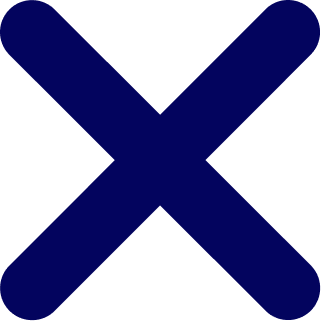
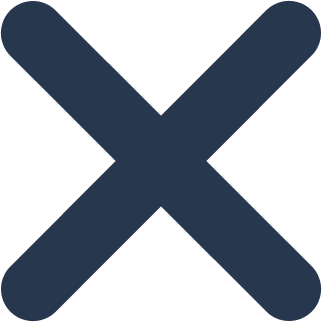
Change theme for better UX.

diff --git a/src/components/navbar.jsx b/src/components/navbar.jsx
@@ -26,40 +26,43 @@ const Navbar = () => {
   }, []);
 
   return (
-    <motion.nav
-      variants={navVariants}
-      initial="hidden"
-      whileInView="show"
-      className={`w-full h-auto flex fixed top-0 z-10 justify-between items-center px-10 py-5 bg-sky-50  text-blue-900 font-poppins ${
-        isScrolled && "border border-t-0 border-x-0 shadow-sm"
-      }`}
-    >
-      <Link
-        className="font-semibold hover:text-blue-700 ease-in-out duration-500 hover:cursor-pointer"
-        to="home"
-        smooth={true}
-        duration={500}
+    <div className="flex w-full h-full relative">
+      <dir className="absolute h-96 w-3/5 rounded-full top-5 blur-3xl bg-gradient-to-br to-lighter-gray from-white z-10 opacity-20"></dir>
+      <motion.nav
+        variants={navVariants}
+        initial="hidden"
+        whileInView="show"
+        className={`w-full h-auto flex fixed top-0 justify-between items-center px-10 py-5 bg-dark-gray text-navy-blue font-poppins ${
+          isScrolled && "border border-t-0 border-x-0 shadow-sm z-10"
+        }`}
       >
-        Chamod
-      </Link>
-      <NavItems classes="hidden md:flex lg:flex flex-row gap-8" />
-      <NavSocials classes="hidden md:flex lg:flex flex-row gap-10" />
-      <div className="flex md:hidden lg:hidden">
-        <img
-          src={!isMenuActive ? assets.menu : assets.cross}
-          className="w-5 hover:cursor-pointer object-cover"
-          onClick={() => setMenuActive((prev) => !prev)}
-        />
-      </div>
-      <div
-        className={`${
-          isMenuActive ? "flex" : "hidden"
-        } flex-col md:hidden lg:hidden absolute w-40 h-48 bg-white top-16 right-5 rounded-md justify-between pt-5 shadow-md`}
-      >
-        <NavItems classes="flex items-center md:hidden lg:hidden flex-col gap-3" />
-        <NavSocials classes="flex border border-x-0 border-b-0 py-3 md:hidden lg:hidden flex-row gap-10 items-center justify-center" />
-      </div>
-    </motion.nav>
+        <Link
+          className="font-semibold hover:text-light-blue ease-in-out duration-500 hover:cursor-pointer"
+          to="home"
+          smooth={true}
+          duration={500}
+        >
+          Chamod
+        </Link>
+        <NavItems classes="hidden md:flex lg:flex flex-row gap-8" />
+        <NavSocials classes="hidden md:flex lg:flex flex-row gap-10" />
+        <div className="flex md:hidden lg:hidden">
+          <img
+            src={!isMenuActive ? assets.menu : assets.cross}
+            className="w-5 hover:cursor-pointer object-cover"
+            onClick={() => setMenuActive((prev) => !prev)}
+          />
+        </div>
+        <div
+          className={`${
+            isMenuActive ? "flex" : "hidden"
+          } flex-col md:hidden lg:hidden absolute w-40 h-48 bg-lighter-gray top-16 right-5 rounded-md justify-between pt-5 shadow-md sidebar`}
+        >
+          <NavItems classes="flex items-center md:hidden lg:hidden flex-col gap-3" />
+          <NavSocials classes="flex border border-x-0 border-b-0 py-3 md:hidden lg:hidden flex-row gap-10 items-center justify-center" />
+        </div>
+      </motion.nav>
+    </div>
   );
 };
 

diff --git a/src/components/contact.jsx b/src/components/contact.jsx
@@ -54,7 +54,7 @@ const Contact = () => {
     >
       <motion.p
         variants={fadeIn("up", "tween", 0.1, 1)}
-        className="text-4xl md:text-5xl lg:text-5xl text-blue-950 font-semibold"
+        className="text-4xl md:text-5xl lg:text-5xl text-navy-blue font-semibold"
       >
         contact.
       </motion.p>
@@ -62,8 +62,8 @@ const Contact = () => {
         variants={fadeIn("up", "tween", 0.2, 1)}
         className="w-full h-auto flex item center justify-center mt-5"
       >
-        <div className="flex flex-row w-full md:w-9/12 lg:w-9/12 h-80 bg-gray-100 rounded-md mb-10 shadow-md">
-          <div className="hidden md:flex lg:flex items-center justify-center h-full w-1/2 bg-gray-200 rounded-md">
+        <div className="flex flex-row w-full md:w-9/12 lg:w-9/12 h-80 bg-light-gray rounded-md mb-10 shadow-md">
+          <div className="hidden md:flex lg:flex items-center justify-center h-full w-1/2 rounded-md">
             <img src={assets.contact} className="object-cover" />
           </div>
           <div className="h-full w-full md:w-1/2 lg:w-1/2 flex flex-col gap-4 items-center justify-center py-5">
@@ -72,7 +72,7 @@ const Contact = () => {
               name="title"
               value={state.data.title}
               onChange={handleChange}
-              className="w-10/12 py-3 px-5 rounded-full shadow-md font-poppins"
+              className="w-10/12 py-3 px-5 bg-dark-gray text-lighter-gray rounded-full shadow-md font-poppins placeholder:text-lighter-gray focus:ring-blue-400"
               placeholder="Title"
             />
             <p className="px-3 text-center font-sm italic text-red-500">
@@ -84,7 +84,7 @@ const Contact = () => {
               name="message"
               value={state.data.message}
               onChange={handleChange}
-              className="w-10/12 py-3 px-5 rounded-2xl shadow-md font-poppins"
+              className="w-10/12 py-3 px-5 bg-dark-gray text-lighter-gray rounded-2xl shadow-md font-poppins placeholder:text-lighter-gray"
               placeholder="Message"
             ></textarea>
             <p className="px-3 text-center font-sm italic text-red-500">
@@ -93,7 +93,7 @@ const Contact = () => {
             <button
               disabled={state.errors}
               onClick={handleClick}
-              className="font-poppins font-semibold hover:enabled:bg-gray-50 bg-white rounded-full px-5 py-2 shadow-md disabled:opacity-75 disabled:cursor-not-allowed "
+              className="font-poppins font-semibold hover:enabled:opacity-90 bg-dark-gray text-lighter-gray rounded-full px-5 py-2 shadow-md disabled:opacity-75 disabled:cursor-not-allowed"
             >
               Contact
             </button>

diff --git a/src/components/heroSection.jsx b/src/components/heroSection.jsx
@@ -23,7 +23,7 @@ const HeroSection = () => {
       whileInView="show"
       viewport={{ once: true }}
       id="home"
-      className="flex flex-col md:flex-row lg:flex-row justify-between items-center w-full h-auto bg-sky-50 text-blue-950 px-10 pt-16"
+      className="flex flex-col md:flex-row lg:flex-row justify-between items-center w-full h-auto bg-dark-gray text-navy-blue px-10 pt-16"
     >
       <div className="w-8/12 h-auto flex flex-col justify-center items-center md:items-start lg:items-start gap-5">
         <div className="flex flex-col mt-5 md:mt-5 lg:mt-0 gap-1 w-auto md:pl-14 lg:pl-14">
@@ -59,7 +59,7 @@ const HeroSection = () => {
           <motion.button
             variants={fadeIn("up", "tween", 0.1, 1)}
             onClick={handleClick}
-            className="font-poppins font-semibold hover:bg-gray-50 bg-white rounded-full px-5 py-2 shadow-md"
+            className="font-poppins font-semibold hover:bg-lighter-gray bg-light-gray rounded-full px-5 py-2 shadow-md"
           >
             Resume
           </motion.button>

diff --git a/src/components/workSection.jsx b/src/components/workSection.jsx
@@ -14,13 +14,13 @@ const WorkSection = () => {
     >
       <motion.p
         variants={fadeIn("up", "tween", 0.1, 1)}
-        className="text-4xl md:text-5xl lg:text-5xl text-blue-950 font-semibold"
+        className="text-4xl md:text-5xl lg:text-5xl text-navy-blue font-semibold"
       >
         work.
       </motion.p>
       <motion.p
         variants={fadeIn("up", "tween", 0.2, 1)}
-        className="text-lg text-center md:text-start lg:text-start md:text-lg lg:text-lg text-blue-950 md:w-9/12 lg:w-9/12"
+        className="text-lg text-center md:text-start lg:text-start md:text-lg lg:text-lg text-navy-blue md:w-9/12 lg:w-9/12"
       >
         The below projects showcase my expertise as a Full Stack Web Developer.
         With captivating designs and robust functionality, I consistently exceed

diff --git a/src/components/about.jsx b/src/components/about.jsx
@@ -14,13 +14,13 @@ const About = () => {
     >
       <motion.p
         variants={fadeIn("up", "tween", 0.1, 1)}
-        className="text-4xl md:text-5xl lg:text-5xl text-blue-950 font-semibold"
+        className="text-4xl md:text-5xl lg:text-5xl text-navy-blue font-semibold"
       >
         about.
       </motion.p>
       <motion.p
         variants={fadeIn("up", "tween", 0.2, 1)}
-        className="text-lg text-center md:text-start lg:text-start md:text-lg lg:text-lg text-blue-950 md:w-9/12 lg:w-9/12"
+        className="text-lg text-center md:text-start lg:text-start md:text-lg lg:text-lg text-navy-blue md:w-9/12 lg:w-9/12"
       >
         I'm pursuing a BICT degree in software systems at the University of
         Kelaniya, expanding my knowledge of software development principles.

diff --git a/src/index.css b/src/index.css
@@ -1,3 +1,30 @@
 @tailwind base;
 @tailwind components;
 @tailwind utilities;
+
+.sidebar {
+  -webkit-animation: slide-top 0.5s cubic-bezier(0.25, 0.46, 0.45, 0.94) both;
+  animation: slide-top 0.5s cubic-bezier(0.25, 0.46, 0.45, 0.94) both;
+}
+
+@-webkit-keyframes slide-top {
+  0% {
+    -webkit-transform: translateY(100px);
+    transform: translateY(100px);
+  }
+  100% {
+    -webkit-transform: translateY(0);
+    transform: translateY(0);
+  }
+}
+
+@keyframes slide-top {
+  0% {
+    -webkit-transform: translateY(100px);
+    transform: translateY(100px);
+  }
+  100% {
+    -webkit-transform: translateY(0);
+    transform: translateY(0);
+  }
+}

diff --git a/src/components/technologies.jsx b/src/components/technologies.jsx
@@ -9,7 +9,7 @@ const Technologies = () => {
         <motion.div
           variants={fadeIn("up", "spring", (index + 1) * 0.5, 0.75)}
           key={item.id}
-          className="flex items-center justify-center bg-white rounded-3xl w-12 md:w-16 lg:w-16 h-12 md:h-16 lg:h-16 shadow-md hover:cursor-pointer hover:bg-gray-50 ease-in-out duration-200"
+          className="flex items-center justify-center hover:bg-lighter-gray bg-light-gray rounded-3xl w-12 md:w-16 lg:w-16 h-12 md:h-16 lg:h-16 shadow-md hover:cursor-pointer ease-in-out duration-200"
           onClick={() => window.open(item.url, "_blank")}
         >
           <img

diff --git a/src/components/workItems.jsx b/src/components/workItems.jsx
@@ -10,7 +10,7 @@ const WorkItems = () => {
         <motion.div
           variants={fadeIn("right", "spring", (index + 1) * 0.5, 0.75)}
           key={item.id}
-          className="group w-80 md:w-82 lg:w-82 h-auto bg-gray-100 hover:shadow-lg shadow-md py-3 rounded-md flex flex-col px-5 text-blue-950 font-poppins"
+          className="group w-80 md:w-82 lg:w-82 h-auto bg-light-gray hover:shadow-lg shadow-md py-3 rounded-md flex flex-col px-5 text-navy-blue font-poppins"
         >
           <div className="relative flex items-center justify-center">
             <img

diff --git a/src/components/footer.jsx b/src/components/footer.jsx
@@ -7,7 +7,7 @@ const Footer = () => {
       variants={footerVariants}
       initial="hidden"
       whileInView="show"
-      className="bg-gray-100 h-auto w-full py-5 flex items-center justify-center text-blue-950 font-semibold text-center px-8"
+      className="bg-light-gray h-auto w-full py-5 flex items-center justify-center text-navy-blue font-semibold text-center px-8"
     >
       © 2023 Chamod Dananjaya | Full Stack Web Developer | Sri Lanka
     </motion.div>

diff --git a/src/components/navItems.jsx b/src/components/navItems.jsx
@@ -6,7 +6,7 @@ const NavItems = (props) => {
     <div className={props.classes}>
       {constants.navItems.map((item) => (
         <Link
-          className="hover:text-blue-700 ease-in-out duration-500 hover:cursor-pointer"
+          className="hover:text-light-blue ease-in-out duration-500 hover:cursor-pointer"
           to={item.value}
           key={item.id}
           smooth={true}

diff --git a/tailwind.config.js b/tailwind.config.js
@@ -6,6 +6,16 @@ export default {
       fontFamily: {
         poppins: ["Poppins", "sans-serif"],
       },
+      colors: {
+        "navy-blue": "#27374D",
+        "light-blue": "#526D82",
+        "dark-gray": "#9DB2BF",
+        "light-gray": "#DDE6ED",
+        "lighter-gray": "#F0F4F8",
+      },
+      ringColor: {
+        DEFAULT: true,
+      },
     },
   },
   plugins: [],

diff --git a/src/components/aboutItems.jsx b/src/components/aboutItems.jsx
@@ -9,7 +9,7 @@ const AboutItems = () => {
       initial="hidden"
       whileInView="show"
       viewport={{ once: false, amount: 0.25 }}
-      className="flex flex-col text-blue-950 font-poppins gap-2 md:gap-8 lg:gap-0"
+      className="flex flex-col text-navy-blue font-poppins gap-2 md:gap-8 lg:gap-0"
     >
       {aboutConsts.map((item, index) => (
         <motion.div
